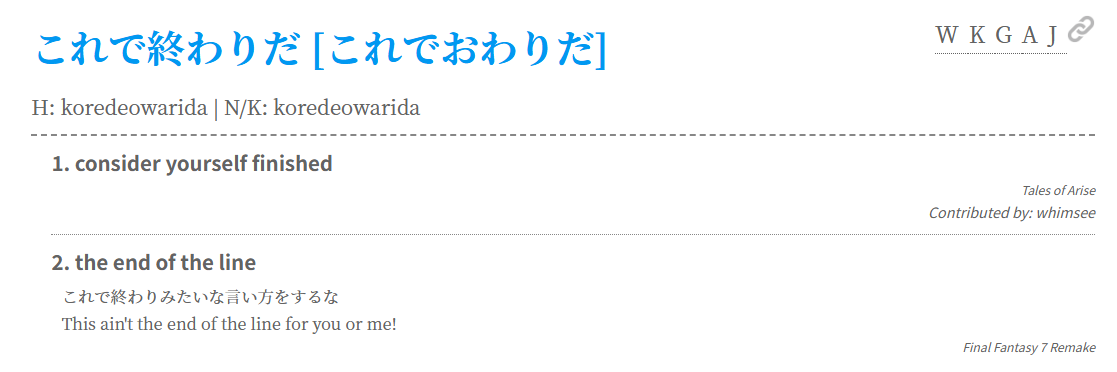
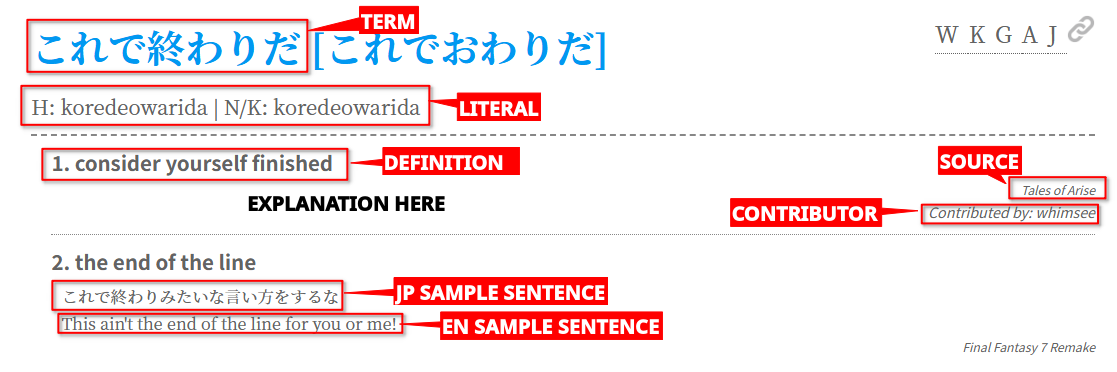
finalized code to add terms

diff --git a/app/templates/add.html b/app/templates/add.html
@@ -126,21 +126,13 @@
 				<!-- Main -->
 					<div id="main">
 							<section id="glossary-wrapper" class="main">
-								<div class="header">ADD A TERM</div>
-                                <div class="description">VERY LONG DESCRIPTION</div>
+								<div class="add_header">ADD A TERM</div>
+                                <p class="add_description">VERY LONG DESCRIPTION. Sample entry. Info taken from Jisho. Submissions will be displayed like this.</p>
+                                <img src="/images/sample.png" />
 								<section id="glossary-wrapper" class="main">
-                                    Sample entry. Info taken from Jisho. Submissions will be displayed like this.
-                                    <img src="/images/sample.png" />
+
+
                                     <div class="fields">
-                                        Items:
-                                        Term
-                                        Literal
-                                        Contributor
-                                        Definition or Alternative
-                                        Contextual Explanation
-                                        Source
-                                        JP sample sentence
-                                        EN translation of sample sentence
 <!--                                         <form name="add_entry"> -->
                                         <form name="add_entry" action="/submit/" method="post">
                                             <label for="term">TERM</label>

diff --git a/app/css/main.css b/app/css/main.css
@@ -3269,6 +3269,25 @@ input, select, textarea {
 		text-align: center;
 	}
 
+	section .description {
+		font-size: 1.2em;
+		padding: 20 20 0 0;
+	}
+
+	div .add_header {
+		text-align: center;
+		font-size: 1.2em;
+	}
+
+	p .add_description {
+		font-size: 1em;
+	}
+
+	.fields label {
+		text-align: center;
+		font-size: 1.2em;
+	}
+
 	header.major {
 		margin-bottom: 3em;
 	}
